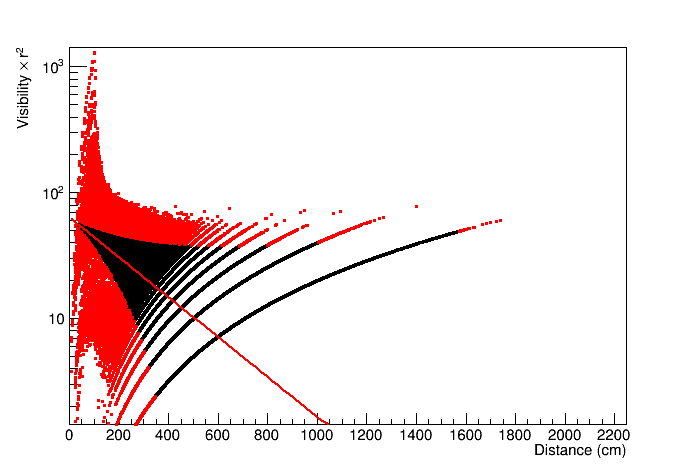
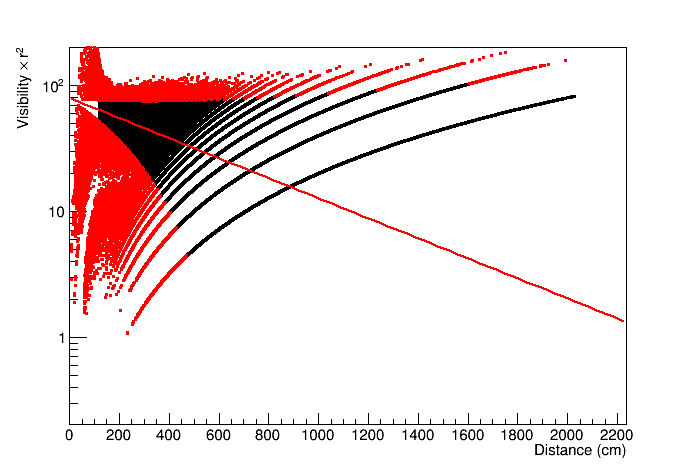
added fit->Fill

diff --git a/larsim/PhotonPropagation/CreateHybridLibrary_module_bea.cc b/larsim/PhotonPropagation/CreateHybridLibrary_module_bea.cc
@@ -61,7 +61,7 @@ namespace phot
     long totExceptions = 0;
     long totPts = 0;
 
-    for(unsigned int opdetIdx =0; opdetIdx <geom->NOpDets(); ++opdetIdx){
+    for(unsigned int opdetIdx =0; opdetIdx < 2; ++opdetIdx){ //geom->NOpDets(); ++opdetIdx){
       std::cout << opdetIdx << " / " << geom->NOpDets() << std::endl;
     
       TDirectory* d_full = fout_full->mkdir(TString::Format("opdet_%d", opdetIdx).Data());
@@ -69,9 +69,9 @@ namespace phot
 
       d_full->cd();
       TTree* tr_full = new TTree("tr", "tr");
-      float vis, dist;
+      float vis, dist, costheta;
       tr_full->Branch("dist", &dist);
-      //tr_full->Branch("costheta", &costheta);
+      tr_full->Branch("costheta", &costheta);
       tr_full->Branch("vis", &vis);
 
       const geo::OpDetGeo& opdet = geom->OpDetGeoFromOpDet(opdetIdx);
@@ -80,11 +80,14 @@ namespace phot
       const TVector3 opdetvec(xyzopdet);
       
       struct Visibility{
-        Visibility(int vx, float d, float v) : vox(vx), dist(d), vis(v) {}
+        Visibility(int vx, float d, float c, float v, double x, double y, double z) : vox(vx), dist(d), costheta(c), vis(v) , ex(x), ey(y), ez(z) {}
         int vox;
         float dist;
-        //float costheta;
+        float costheta;
         float vis;
+	double ex;
+	double ey;
+	double ez; 
       };
       TCanvas *c1=new TCanvas("c1", "c1");
       //c1->SetCanvasSize(1500, 1500);
@@ -102,11 +105,12 @@ namespace phot
         const double xyzvox[] = {voxvec.X(), voxvec.Y(), voxvec.Z()};
         dist = opdet.DistanceToPoint(xyzvox);
         vis = pvs->GetVisibility(xyzvox, opdetIdx);
-        if(dist>120){
-	  g.SetPoint(g.GetN(), dist, vis*dist*dist); //pinta el grafico
-	}
+        //if(dist>120){
+	g.SetPoint(g.GetN(), dist, vis*dist*dist); //pinta el grafico
+	  //}
         tr_full->Fill();
-	viss.emplace_back(voxIdx, dist, vis);
+
+        viss.emplace_back(voxIdx, dist, costheta, vis, voxvec.X(),voxvec.Y(),voxvec.Z());
       } // end for voxIdx
 
       d_full->cd();
@@ -139,6 +143,28 @@ namespace phot
       tr_fit->Branch("dist", &dist);
       
    
+      TCanvas *c2=new TCanvas();
+      // c2->SetCanvasSize(1500, 1500);
+      c2->SetWindowSize(600, 600);
+      TGraphErrors g3; 
+      TGraph g4;
+      TGraph g5;
+      
+      TCanvas *c3=new TCanvas();
+      //c3->SetCanvasSize(1500, 1500);
+      c3->SetWindowSize(600, 600);
+      TGraphErrors g6; 
+      TGraph g7;
+      TGraph g8;
+
+      TCanvas *c4=new TCanvas();
+      //c4->SetCanvasSize(1500, 1500);
+      c4->SetWindowSize(600, 600);
+      TGraphErrors g9; 
+      TGraph g10;
+      TGraph g11;
+
+
       for(const Visibility& v: viss){
         // 2e-5 is the magic scaling factor to get back to integer photon
         // counts. TODO this will differ for new libraries, should work out a
@@ -149,18 +175,64 @@ namespace phot
         // Log-likelihood ratio for poisson statistics
         double chisq = 2*(pred-obs);
         if(obs) chisq += 2*obs*log(obs/pred);
-	vis = pred *2e-5;  //what gets filled v.vis or vis?
-	dist = v.dist;
+	
+	if(opdetvec[2]-2.911 <v.ez && v.ez <= opdetvec[2] + 2.911){
+	  if(opdetvec[1]-6.7885 <v.ey && v.ey <= opdetvec[1] + 6.7885){
+      	    g3.SetPoint(g3.GetN(), v.ex, obs*2e-5);
+	    g3.SetPointError(g3.GetN()-1, 0, sqrt(obs)*2e-5);
+	    g4.SetPoint(g4.GetN(), v.ex, pred*2e-5);
+	    //std::cout << "V(x), voxels with coordinates (x, y, z) " <<" x " <<v.ey<<"  "<< v.ez << std::endl;
+     	  }
+	}//V(x)
+
+	if(140-3.797 <v.ex && v.ex <= 140+3.797){
+	  if(opdetvec[2]-2.911 <v.ez && v.ez <= opdetvec[2]+2.911){
+      	    g6.SetPoint(g6.GetN(), v.ey, obs*2e-5);
+	    g6.SetPointError(g6.GetN()-1, 0, sqrt(obs)*2e-5);
+	    g7.SetPoint(g7.GetN(), v.ey, pred*2e-5);
+	    //std::cout << "V(y) for x = 140, voxels with coordinates (x, y, z) " << v.ex <<"  y  " << v.ez << std::endl;
+	  }
+	}//V(y) for x = 140
+       
+	if(240-3.797 <v.ex && v.ex <= 240+3.797){
+	  if(opdetvec[2]-2.911 <v.ez && v.ez <= opdetvec[2]+2.911){
+	    g9.SetPoint(g9.GetN(), v.ey, obs*2e-5);
+	    g9.SetPointError(g9.GetN()-1, 0, sqrt(obs)*2e-5);
+	    g10.SetPoint(g10.GetN(), v.ey, pred*2e-5);
+	    //std::cout << "V(y) for x = 240, voxels with coordinates (x, y, z) " << v.ex <<"  y  " << v.ez << std::endl;
+	    //std::cout <<"OBSERVED" << obs*2e-5 <<std::endl;
+	    //std::cout <<"PREDICTED" << pred*2e-5 <<std::endl;
+	  }
+	}//V(y) for x = 240
 	
 	h.Fill(chisq);
-	tr_fit->Fill();
        
         if(chisq > 9){ //equivalent to more than 9 chisquare = 3 sigma    //maybe play around with this cutoff
 	  g2.SetPoint(g2.GetN(), v.dist, obs*2e-5*v.dist*v.dist);
+	  
+	  if(opdetvec[2]-2.911 <v.ez && v.ez <= opdetvec[2] + 2.911){
+	    if(opdetvec[1]-6.7885 <v.ey && v.ey <= opdetvec[1] + 6.7885){
+	      g5.SetPoint(g5.GetN(), v.ex, obs*2e-5);
+	    }
+	  }//V(x)
+
+	  if(140-3.797 <v.ex && v.ex <= 140+3.797){
+	    if(opdetvec[2]-2.911 <v.ez && v.ez <= opdetvec[2]+2.911){
+       	      g8.SetPoint(g8.GetN(), v.ey, obs*2e-5);
+	    }
+	  }//V(y) for x = 140
+						
+	  if(240-3.797 <v.ex && v.ex <= 240+3.797){
+	    if(opdetvec[2]-2.911 <v.ez && v.ez <= opdetvec[2]+2.911){
+       	      g11.SetPoint(g11.GetN(), v.ey, obs*2e-5);
+	    }
+	  }//V(y) for x = 240
+
+	
 	  vox = v.vox;
-	  vis = pred*2e-5;
-	  vis = v.vis;
+          vis = v.vis;
           dist = v.dist;
+          costheta = v.costheta;
           tr_fit->Fill();
         }
       }
@@ -179,6 +251,82 @@ namespace phot
       //gPad->Print(TString::Format("plots/vis_vs_dist_%d.png", opdetIdx).Data());
       c1->SaveAs(TString::Format("plots/Chris_vis_vs_dist_%d.png", opdetIdx).Data());
       
+      g3.SetMarkerSize(3); 
+      g4.SetMarkerSize(3); 
+      g5.SetMarkerSize(1); 
+      //g3.SetLineWidth(3);
+      g3.SetMarkerStyle(7);
+      g4.SetMarkerStyle(7);
+      g5.SetMarkerStyle(3);
+      g4.GetXaxis()->SetTitle("x-coordinate [cm]");
+      g4.SetMarkerColor(kRed); //prediction is in red
+      g5.SetMarkerColor(kBlue); //final in blue
+      //g3.GetXaxis()->SetRangeUser(2715000,2719000);
+      //g3.GetYaxis()->SetRangeUser(0,1000);
+      g4.GetYaxis()->SetTitle("Visibility");
+      gStyle->SetLabelSize(.04, "XY");
+      gStyle->SetTitleSize(.04,"XY");
+      gPad->SetLogy();
+      c2->cd();
+      gPad->SetLogy();
+      g4.Draw("ap");
+      g3.Draw("p same");
+      g5.Draw("p same");
+      //gPad->Print(TString::Format("plots/chisq_vs_dist_%d.png", opdetIdx).Data());
+      c2->SaveAs(TString::Format("plots/Bea_vis_vs_x_%d.png", opdetIdx).Data());
+      //c2->Print("plots/Bea_chisq_dist.pdf");
+      
+
+      g6.SetMarkerSize(3); 
+      g7.SetMarkerSize(3); 
+      g8.SetMarkerSize(1); 
+      //g6.SetLineWidth(3);
+      g6.SetMarkerStyle(7);
+      g7.SetMarkerStyle(7);
+      g8.SetMarkerStyle(3);
+      g6.GetXaxis()->SetTitle("y-coordinate [cm]");
+      g7.SetMarkerColor(kRed); //prediction is in red
+      g8.SetMarkerColor(kBlue); //final in blue
+      //g3.GetXaxis()->SetRangeUser(2715000,2719000);
+      g6.GetYaxis()->SetRangeUser(0,0.004);
+      g6.GetYaxis()->SetTitle("Visibility");
+      gStyle->SetLabelSize(.04, "XY");
+      gStyle->SetTitleSize(.04,"XY");
+      
+      c3->cd();
+      //gPad->SetLogy();
+      g6.Draw("ap");
+      g7.Draw("p same");
+      g8.Draw("p same");
+      //gPad->Print(TString::Format("plots/chisq_vs_dist_%d.png", opdetIdx).Data());
+      c3->SaveAs(TString::Format("plots/Bea_vis_vs_y_x=140_%d.png", opdetIdx).Data());
+      
+      g9.SetMarkerSize(3); 
+      g10.SetMarkerSize(3); 
+      g11.SetMarkerSize(1); 
+      //g9.SetLineWidth(3);
+      g9.SetMarkerStyle(7);
+      g10.SetMarkerStyle(7);
+      g11.SetMarkerStyle(3);
+      g9.GetXaxis()->SetTitle("y-coordinate [cm]");
+      g10.SetMarkerColor(kRed); //prediction is in red
+      g11.SetMarkerColor(kBlue); //final in blue
+      //g3.GetXaxis()->SetRangeUser(2715000,2719000);
+      g9.GetYaxis()->SetRangeUser(0,0.0016);
+      g9.GetYaxis()->SetTitle("Visibility");
+      gStyle->SetLabelSize(.04, "XY");
+      gStyle->SetTitleSize(.04,"XY");
+      
+      c4->cd();
+      //gPad->SetLogy();
+      g9.Draw("ap");
+      g10.Draw("p same");
+      g11.Draw("p same");
+      //gPad->Print(TString::Format("plots/chisq_vs_dist_%d.png", opdetIdx).Data());
+      c4->SaveAs(TString::Format("plots/Bea_vis_vs_y_x=240_%d.png", opdetIdx).Data());
+      
+      
+      
 
       h.GetXaxis()->SetTitle("#chi^{2}");
       h.GetYaxis()->SetTitle("Counts");
@@ -192,9 +340,9 @@ namespace phot
       gPad->Print(TString::Format("plots/chisq_opdet_%d.eps", opdetIdx).Data());
             
       delete c1;
-      //delete c2;
-      //delete c3;
-      //delete c4;
+      delete c2;
+      delete c3;
+      delete c4;
       //std::cout << "Plots for voxels with coordinates (x, y, z) " << x_vox <<"  y  " << z_vox << std::endl;
     } // end for opdetIdx
 

diff --git a/larsim/PhotonPropagation/root/Tutorial2.C b/larsim/PhotonPropagation/root/Tutorial2.C
@@ -11,25 +11,25 @@ void Tutorial2()
     Double_t Length[] = {   0.00,  0.5,  1.00};
 
     TColor::CreateGradientColorTable(3,Length,Red,Green,Blue,101);
-    //gStyle->SetNumberContours(101);
+    //gStyle->SetNumberContours(101); 
     TCanvas *c1=new TCanvas("c1", "c1");
     gStyle->SetOptStat(0);
     c1->SetCanvasSize(1500, 1500);
     c1->SetWindowSize(600, 600);
     c1->Divide(1,3);
     // Load the hist file we produced
-    TFile *hyb = new TFile("std_wFC_hist.root");
+    //TFile *hyb = new TFile("std_wFC_hist.root");
     //TFile *hyb = new TFile("hybrid_with_FC.root");
-    //TFile *hyb = new TFile("hybrid_without_FC.root");
-    //TH2D* hist1 = (TH2D*) hyb->Get("analyze/projX48");
+    TFile *hyb = new TFile("hybrid_without_FC.root");
+    TH2D* hist1 = (TH2D*) hyb->Get("analyze/projZ230");
     //TH2D* hist1 = (TH2D*) hyb->Get(TString::Format("analyze/projX%d", integer).Data());
-    TH2D* hist1 = (TH2D*) hyb->Get("analyze/ZProjection");
+    //TH2D* hist1 = (TH2D*) hyb->Get("analyze/ZProjection");
     
     //TFile *std = new TFile("std_wFC_hist.root");
     TFile *std = new TFile("std_withoutFC_hist.root"); //without FC
-    //TH2D* hist2 = (TH2D*) std->Get("analyze/projX48");
+    TH2D* hist2 = (TH2D*) std->Get("analyze/projZ230");
     //TH2D* hist2 = (TH2D*) std->Get(TString::Format("analyze/projX%d", integer).Data());
-    TH2D* hist2 = (TH2D*) std->Get("analyze/ZProjection");
+    //TH2D* hist2 = (TH2D*) std->Get("analyze/ZProjection");
     
     TH2D *hist3 = (TH2D*) hist1->Clone("hist3");
     
@@ -38,11 +38,11 @@ void Tutorial2()
     hist1->GetYaxis()->SetLabelSize(0.07);
     hist1->GetXaxis()->SetLabelSize(0.07);
     hist1->Draw("colz");
-    hist1->SetTitle("Standard Library ZProjection with FC");
+    hist1->SetTitle("Hybrid Library Zproj_230 without FC");
     //hist1->SetTitle("Hybrid Library");
     //hist1->SetTitleSize(.09, "");
-    hist2->SetMinimum(-0.00001);
-    hist2->SetMaximum(40);
+    hist1->SetMinimum(0);
+    hist1->SetMaximum(0.15);
 
     // if(integer>30){
     //hist1->SetMaximum(0.16);
@@ -53,31 +53,31 @@ void Tutorial2()
     hist2->GetZaxis()->SetLabelSize(0.07);
     hist2->GetYaxis()->SetLabelSize(0.07);
     hist2->GetXaxis()->SetLabelSize(0.07);
-    hist2->SetTitle("Standard Library ZProjection without FC");
+    hist2->SetTitle("Standard Library Zproj_230 without FC");
     //hist2->SetTitle("Standard Library");
     hist2->Draw("colz");
     //if(integer>30){
     hist2->SetMaximum(40);
     //}
     //else hist2->SetMaximum(0.1);
-    hist2->SetMinimum(-0.00001);
-    hist2->SetMaximum(40);
+    hist2->SetMinimum(0);
+    hist2->SetMaximum(0.15);
 
     c1->cd(3);
     gStyle->SetNumberContours(101);
     hist3->GetZaxis()->SetLabelSize(0.07);
     hist3->GetYaxis()->SetLabelSize(0.07);
     hist3->GetXaxis()->SetLabelSize(0.07);
-    hist3->SetTitle("Ratio Standard Phototn Library with/without FC ZProjection");
+    hist3->SetTitle("Ratio Hybrid/Std Library without FC Zproj_230");
     //hist3->SetTitle("Ratio Hybrid/Std Library");
     hist3->Divide(hist2);
     hist3->Draw("colz");
-    hist3->SetMaximum(2);
-    hist3->SetMinimum(0);
+    hist3->SetMaximum(1.5);
+    hist3->SetMinimum(0.5);
     //gPad->Print(TString::Format("plots/projX48.png"));
     //c1->SaveAs("plots_50/50_XProjection.pdf");
     //c1->SaveAs(TString::Format("Xplots_all/all_projX%d.png", integer).Data());
-    c1->SaveAs("plot/ZProjection.png");
+    c1->SaveAs("Zplots_hyb_vs_std/Zproj_230.png");
     delete c1;
     //}
 }

diff --git a/larsim/PhotonPropagation/CreateHybridLibrary_module_original.cc b/larsim/PhotonPropagation/CreateHybridLibrary_module_original.cc
@@ -148,7 +148,7 @@ namespace phot
           g2.SetPoint(g2.GetN(), v.dist, obs*2e-5*v.dist*v.dist);
           
 	  vox = v.vox;
-          vis = v.vis;
+          vis = v.vis; //if outside of 3 sigma take visibility from library
           dist = v.dist;
           costheta = v.costheta;
           tr_fit->Fill();

diff --git a/larsim/PhotonPropagation/.#CreateHybridLibrary_module_original.cc b/larsim/PhotonPropagation/.#CreateHybridLibrary_module_original.cc
@@ -1,0 +1,1 @@
+btapiaor@dunegpvm03.fnal.gov.30213:1517878893
